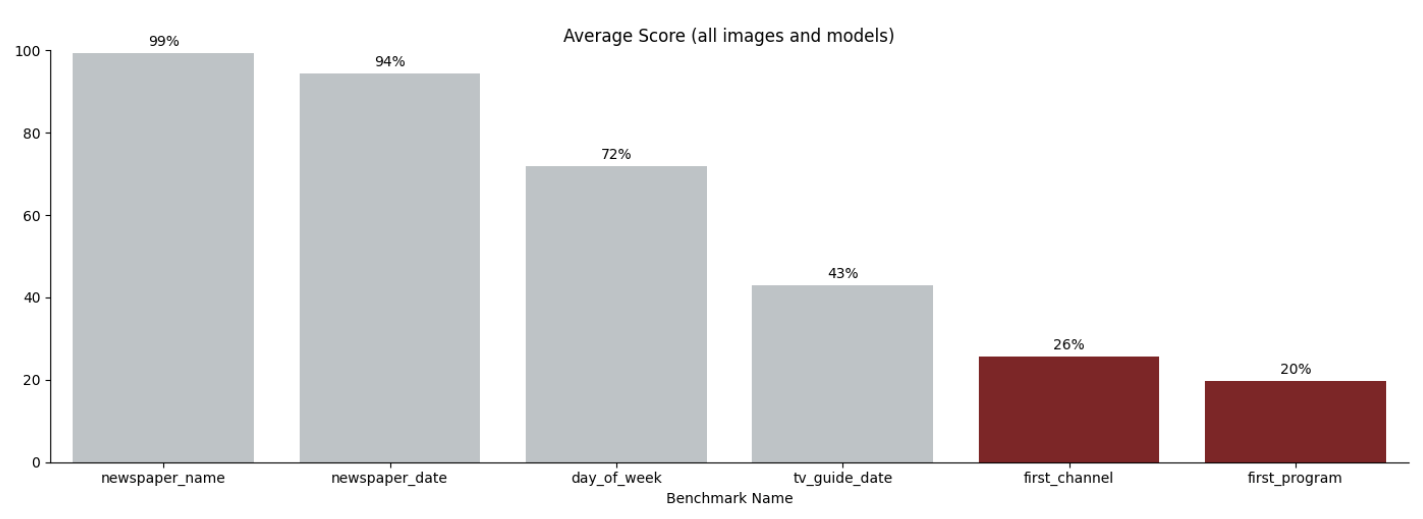
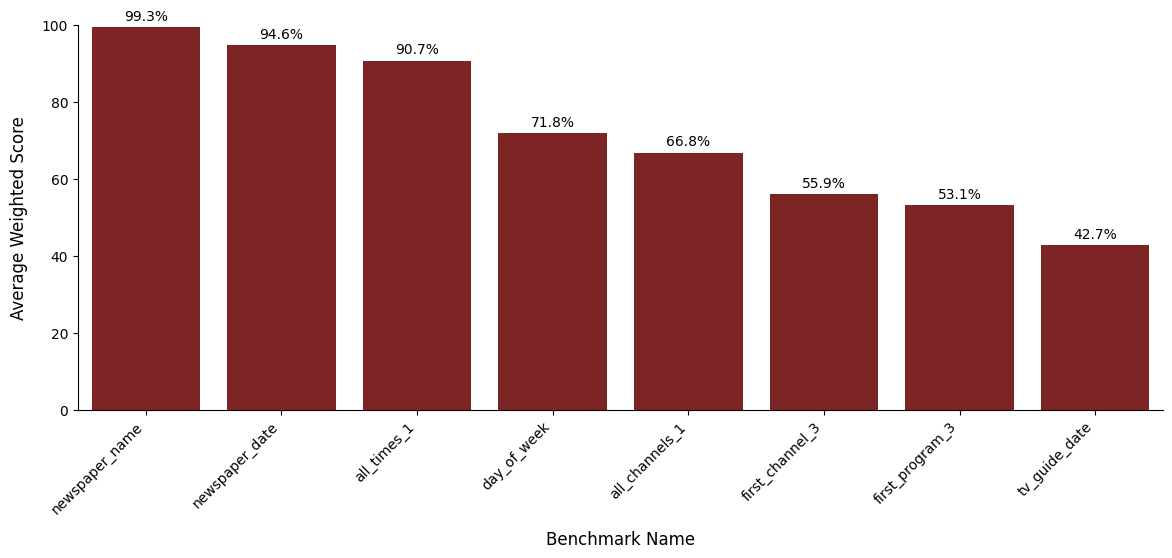
Updated blog, cleaned up image assets.

diff --git a/docs/blog/posts/llm_evals.md b/docs/blog/posts/llm_evals.md
@@ -16,7 +16,7 @@ Large Language Models (LLMs) offer a powerful alternative to manual data extract
 <!-- more -->
 
 !!! note
-    This article will cover how to design LLM benchmarks for research related data extraction and provide examples from our own implementation. For additional context you can reference our [Hub How-To](https://gsbresearchhub.stanford.edu/training-workshops){target="_blank"}  and our GitHub [here](https://github.com/gsbdarc/LLM_benchmarks){target="_blank"}.
+    This article will cover how to design LLM benchmarks for research related data extraction and provide examples from our own implementation. For additional context you can reference our [Hub How-To](https://gsbresearchhub.stanford.edu/training-workshops){target="_blank"} and our [GitHub](https://github.com/gsbdarc/LLM_benchmarks){target="_blank"}.
 
 ## Our Data
 
@@ -38,7 +38,7 @@ For our LLM evaluation pipeline, one benchmark asked the model to extract the da
 By establishing fixed criteria, a benchmark allows researchers to:
 
 - **Navigate Tradeoffs**: Systematically balance budget constraints against accuracy requirements.
-- **Reproducibility**: Guarantee objective, reproducible results rather than relying on a few lucky outputs.
+- **Ensure Reproducibility**: Guarantee objective, reproducible results rather than relying on a few lucky outputs.
 - **Track Progress**: Confidently measure whether a prompt tweak or model switch actually improves performance or causes a regression.
 
 ### Evaluation Framework
@@ -57,30 +57,32 @@ The framework we used has four components; in a well-designed benchmark, each fo
 The research question anchors the entire framework. Everything downstream (what you extract, how you prompt, how you score) should trace back to it.
 
 !!! example "In our pipeline"
-    *How did historical TV programming vary across channels and time periods?*
+    How did historical TV programming vary across channels and time periods?
 
 **Task**
 
 A task translates the research question into a concrete extraction operation. One research question may require several tasks; each should be narrow enough to prompt clearly and score objectively.
 
 !!! example "In our pipeline"
-    "Extract the show title of the first program listed in the TV-listings grid for the earliest time slot shown": a consistent, well-defined data point present on every newspaper page.
+    Get the name of the first channel from each image.
+
 
 **Prompt**
 
 The prompt translates the task into explicit, machine-readable instructions. Precision matters: a vague prompt doesn't just produce inconsistent outputs, it makes it harder to diagnose whether poor results reflect a model limitation or an underspecified instruction.
 
 !!! example "In our pipeline"
-    The prompt needed to specify where in the grid to look and exactly what to return. See [Updating Prompts](#updating-prompts) for how it evolved across three iterations.
+    Analyze the provided image of a TV schedule grid from a newspaper. Each row represents one channel. The leftmost or rightmost area of each row contains the channel information. Extract the channel information from ONLY the first data row of the grid (the first row immediately after the time-slot or any other subsection headers).
 
 **Metric**
 
-The metric defines what counts as a correct answer, and the choice has real consequences for how you interpret results.
+The metric defines what counts as a correct answer and measures how close an output is to the ground truth.
 
 !!! example "In our pipeline"
-    We scored each model response against the **ground truth**: the verified, hand-transcribed correct answer for each image. For the *first program* task, the ground truth was the show **title** only: the show name stripped of episode descriptions, closed-captioning markers, and VCR codes.
-
-    We started with exact string matching, but this penalized nearly correct outputs (e.g., "Daytona 500" gets a 0 when the ground truth is "2015 Daytona 500".) We switched to fuzzy matching (Levenshtein similarity ratio) to better capture partial accuracy.
+    LLM Output: "Food Channel"  
+    Ground Truth: "Food Network"  
+    Metric: word_iou (fraction of common words between two strings)  
+    Score: 0.5
 
 **The Feedback Loop**
 
@@ -95,73 +97,94 @@ In practice, this framework is iterative, not linear. Poor scores are a diagnost
 - Does your prompt properly explain what you want the LLM to do?
 - Is your metric appropriate for what the prompt is actually asking?
 
-In our pipeline, a one-sentence prompt returned poor results; iterating on it significantly improved performance across models. At the scale of this project (18 models, 35 images, 6 benchmarks), that's nearly 3,800 task combinations per iteration — a reusable pipeline turns each prompt change into a configuration update rather than a full re-run.
+In our pipeline, a one-sentence prompt returned poor results; iterating on it significantly improved performance across models.
 
 ### Executing at Scale
 
-To handle this scale efficiently, we built the following pipeline:
+Our project scaled quickly (18 models, 35 images, 6 benchmarks) with nearly 3,800 task combinations per iteration. To handle this volume efficiently, we built the following pipeline:
 
 <figure markdown>
   ![The evaluation pipeline](../../assets/images/llm_eval_pipeline.png){ width="700" }
   <figcaption>The end-to-end evaluation pipeline used in our project.</figcaption>
 </figure>
 
-After configuring our inputs (benchmarks, models, and images) and converting PDFs to greyscale PNGs, we accessed models through the [Stanford Playground API](https://uit.stanford.edu/aiplayground){target="_blank"}. Outputs and benchmark evaluation results were stored in [MongoDB](https://www.mongodb.com){target="_blank"}, our centralized database. 
+After configuring our inputs (benchmarks, models, and images) and converting PDFs to greyscale PNGs, we accessed models through the [Stanford Playground AI API](https://rcpedia.stanford.edu/blog/2026/03/06/stanfords-llm-api-tools/){target="_blank"}. Stanford provides access through a Stanford-managed environment with vendor agreements covering data use, retention, and model training; data is not used to train vendor models. The API allowed us to get outputs from models without the need for a web interface.
+
+!!! note "Stanford AI Playground"
+    Note: models are continuously deprecated and added to the Playground. You must reapply for a new key each time the list of available models changes in order to keep your access up to date.
+
+Outputs and benchmark evaluation results were stored in [MongoDB](https://www.mongodb.com){target="_blank"}, our centralized database with the following schema:
+
+| Field | Type | Example | Notes |
+| --- | --- | --- | --- |
+| `_id` | string | `"3023_2_processed"` | Primary key that captures the task ID and run ID of a successful LLM output |
+| `benchmark_id` | string | `"2"` | Unique integer identifier for the prompt |
+| `benchmark_name` | string | `"newspaper_date"` | Unique name identifier for the prompt |
+| `completion_tokens` | integer | `15` | Token usage associated with the LLM output |
+| `error` | string | `null` | Error message if the LLM was not able to return an output |
+| `image_id` | string | `"1"` | Unique integer identifier for the image used |
+| `model_id` | string | `"1"` | Unique integer identifier for the LLM |
+| `model_name` | string | `"Llama-4"` | Unique name identifier for the LLM |
+| `output_name` | string | `"Sun, Nov 16, 1997"` | Output from the LLM |
+| `run_id` | integer | `1` | The ith iteration of a given task |
+| `status` | string | `"processed"` | `processed` if the LLM returned an output without error, otherwise `unprocessed` |
+| `task_id` | string | `"2416"` | Unique ID associated with the combination of benchmark, image, and model |
+| `total_tokens` | integer | `4000` | Token usage associated with the input prompt and LLM output |
+| `updated_at` | datetime | `2026-04-08 15:45:50` | Time when the LLM returned an output |
+
 
 Storing results means you can compare across runs: did the new prompt do better or worse than the last version? Did switching models cause a regression on a benchmark that was previously working? Without it, answering those questions requires re-running everything from scratch.
 
 We processed all tasks in a few hours using the [Yen](https://rcpedia.stanford.edu/_getting_started/how_access_yens/?h=yens){target="_blank"} servers for compute and [SLURM](https://rcpedia.stanford.edu/_user_guide/slurm/?h=slurm){target="_blank"} array jobs to process tasks in parallel.
-
-!!! note "Stanford AI Playground"
-    We used the Stanford AI Playground because it gave us access to multiple multimodal models through a single Stanford managed API. The playground is approved for [high risk](https://uit.stanford.edu/news/stanford-ai-playground-now-approved-high-risk-data){target="_blank"} data. Stanford provides access through a Stanford-managed environment with vendor agreements covering data use, retention, and model training; data is not used to train vendor models.
-
-    You will need to apply and get approval for an [API](https://uit.stanford.edu/service/ai-api-gateway){target="_blank"} key.
-
-    Note: models are continuously deprecated and added to the Playground. You must reapply for a new key each time the list of available models changes in order to keep your access up to date.
 
 ## In Practice: Iterating on Historical TV Guides
 
 Here's how we applied this framework in practice.
 
 <figure markdown>
-  ![Example newspaper pages with TV-listings grids from our dataset](../../assets/images/llm_eval_tv_guide_example.png){ width="700" }
+  ![Example newspaper page with TV-listings grids from our dataset](../../assets/images/llm_eval_tv_guide_example.png){ width="700" }
   <figcaption>Example newspaper pages with TV-listings grids from our dataset.</figcaption>
 </figure>
 
 ### Selecting Benchmarks
 
-We selected tasks with clear, verifiable answers and assigned each a difficulty level based on expected extraction challenge; these levels were later confirmed by our results. We started with six benchmarks:
+We selected tasks with clear, verifiable answers and assigned each a difficulty level based on expected extraction challenge. We started with six benchmarks:
 
 <figure markdown>
-  ![First example newspaper page from our benchmark dataset](../../assets/images/llm_eval_benchmark_pic_1.png){ width="700" }
-  <figcaption>Sample page from our dataset showing the newspaper header and TV-listings grid.</figcaption>
+  ![First example newspaper page from our benchmark dataset](../../assets/images/llm_eval_benchmark_easy.png){ width="700" }
+  <figcaption>Sample page from our dataset showing the newspaper header and TV-listings grid. Easy benchmark answers are in grey boxes.</figcaption>
 </figure>
+
+**Easy (Grey)**
+
+  | Task | Description |
+  |---|---|
+  | Newspaper Name | Simple metadata extraction, fixed location across documents, high resolution. |
+  | Newspaper Date | Simple metadata extraction, fixed location across documents, high resolution. |
 
 <figure markdown>
-  ![Second example newspaper page from our benchmark dataset](../../assets/images/llm_eval_benchmark_pic_2.png){ width="700" }
-  <figcaption>A second sample page illustrating layout variability across the dataset.</figcaption>
+  ![First example newspaper page from our benchmark dataset](../../assets/images/llm_eval_benchmark_medium.png){ width="700" }
+  <figcaption>Sample page from our dataset showing the newspaper header and TV-listings grid. Medium benchmark answers are in yellow boxes.</figcaption>
 </figure>
 
-=== "Easy (Grey)"
+**Medium (Yellow)**
 
-    | Task | Description |
-    |---|---|
-    | Newspaper Name | Simple metadata extraction, fixed location across documents, high resolution. |
-    | Newspaper Date | Simple metadata extraction, fixed location across documents, high resolution. |
+  | Task | Description |
+  |---|---|
+  | TV Guide Day of Week | Varied location, mixed resolution, data found in scanned PDF. |
+  | TV Guide Date | Reasoning: answer is derived by combining both Newspaper Date and TV Guide Day of Week without being explicitly prompted. |
 
-=== "Medium (Yellow) "
+<figure markdown>
+  ![First example newspaper page from our benchmark dataset](../../assets/images/llm_eval_benchmark_hard.png){ width="700" }
+  <figcaption>Sample page from our dataset showing the newspaper header and TV-listings grid. Hard benchmark answers are in red boxes. </figcaption>
+</figure>
 
-    | Task | Description |
-    |---|---|
-    | TV Guide Day of Week | Varied location, mixed resolution, data found in scanned PDF. |
-    | TV Guide Date | Reasoning: answer is derived by combining both Newspaper Date and TV Guide Day of Week without being explicitly prompted. |
+**Hard (Red)**
 
-=== "Hard (Red)"
-
-    | Task | Description |
-    |---|---|
-    | First Channel | Data found within grid, smallest font, lowest resolution, variability (color, placement, size). |
-    | First Program | Data found within grid, smallest font, lowest resolution, variability (color, placement, size). |
+  | Task | Description |
+  |---|---|
+  | First Channel | Data found within grid, smallest font, lowest resolution, variability (color, placement, size). |
+  | First Program | Data found within grid, smallest font, lowest resolution, variability (color, placement, size). |
 
 ### Challenges with "Ground Truth"
 
@@ -187,7 +210,7 @@ The so-called "right" answer depends on what your prompt is actually asking for 
 
 With ground truth defined, our scores became the signal for iteration. One benchmark that models initially struggled with was extracting the first program name — the hardest task in the set, with small font, low resolution, and significant variability across guides.
 
-We adjusted our prompt several times to see if we could get better results. You can see the prompts we used below and how each model performed across all images.
+We adjusted our prompt several times to see if we could get better results. You can see the prompts we used below and how each model performed across all images. The model with the best performance across each prompt is highlighted in red.
 
 === "First Program v1"
     **Short, one sentence prompt.**
@@ -209,7 +232,7 @@ We adjusted our prompt several times to see if we could get better results. You 
     </figure>
 
     !!! note "Why did GPT-5 score 0%?"
-        Under fuzzy matching, even a hallucination produces some character overlap and scores above zero — so exactly 0% means the model returned null rather than any answer at all. On this prompt version, gpt-5 and gpt-5-mini consistently abstained when the target text was too small or low-resolution to read confidently, rather than attempt an uncertain extraction.
+        Under fuzzy matching (scoring partial overlap rather than requiring an exact match), even a hallucination produces some character overlap and scores above zero — so exactly 0% means the model returned null rather than any answer at all. On this prompt version, gpt-5 and gpt-5-mini consistently abstained when the target text was too small or low-resolution to read confidently, rather than attempt an uncertain extraction.
 
         ![Example model outputs for image #19 with ground truth "Politically"](../../assets/images/llm_eval_example_outputs.png)
 === "First Program v3"
@@ -225,50 +248,70 @@ We adjusted our prompt several times to see if we could get better results. You 
 ### Results
 
 === "Average Accuracy by Benchmark"
-    Across our initial benchmarks and all models, scores followed the difficulty gradient we predicted before running.
 
     <figure markdown>
       ![Average score by benchmark across all images and models](../../assets/images/llm_eval_benchmark_results_1.png){ width="700" }
       <figcaption>Average accuracy by benchmark across all models and images.</figcaption>
     </figure>
 
-    Easy metadata tasks (newspaper name and newspaper date) scored above 94% on average. The hard grid reading tasks (first channel, first program) averaged 26% and 20% respectively, reflecting the challenges of small fonts and low scan resolution.
+    Our best performing benchmarks were easy metadata tasks like newspaper name and newspaper date, which scored 99% and 95% respectively. 
+
+    The worst performing benchmark was TV Guide Date with an overall score of 42.7%. Low scores were indicative of vague prompting and additional complexity from reasoning compared to other data extraction benchmarks.'
+
+    We added additional benchmarks "all times" and "all channels" to evaluate how well the models did on extracting larger arrays of information.
+
+
 === "Average Accuracy by Model"
-    Looking across six benchmarks, the model leaderboard for accuracy averaged across all tasks was:
+    Looking across all benchmarks, the model leaderboard for accuracy averaged across all tasks was:
 
     <figure markdown>
       ![Top-8 and bottom-8 models by overall accuracy and total cost](../../assets/images/llm_eval_model_ranking.png){ width="700" }
       <figcaption>Top-8 and bottom-8 models ranked by overall accuracy, with total cost per model.</figcaption>
     </figure>
 
-    Gemini-2.5-pro topped the leaderboard at 71.9% overall while claude-3-haiku could only produce accurate results 51% of the time. Notably, our most expensive model was o1, which cost almost 5x more than gemini-2.5-pro but had an accuracy of 61%.
+    Gemini-2.5-pro topped the leaderboard at 78.6% overall while claude-3-haiku could only produce accurate results 48% of the time. Notably, our most expensive model was o1, which cost almost 5x more than gemini-2.5-pro but had an accuracy of 58%.
+
+### Temperature and Reasoning Models
+
+**Accuracy Rates Across Runs**
+
+<figure markdown>
+  ![Accuracy rate for benchmarks across runs](../../assets/images/llm_eval_variability.png){ width="500" }
+  <figcaption> Variability across runs for day of week and tv guide date (all models and images).  </figcaption>
+</figure>
+
+We set `temperature=0` for all models to keep extraction deterministic (the same prompt on the same image should produce the same output every time). Even after doing so, however, we noticed variation in outputs which was reflected in the accuracy rate per run. To account for this we would recommend running the same task multiple times and taking the average of the metrics.
+
+**Reasoning**
+
+Some models also support a **reasoning effort** parameter that controls how much internal chain-of-thought the model performs before responding; however, this setting is not consistently available across all models in the Stanford Playground, so we used each model's default.
+
+One benchmark where reasoning capability genuinely mattered was **TV Guide Date**: unlike the other tasks, the correct date isn't printed explicitly anywhere in the grid. Instead, the model must derive it by combining the newspaper's publication date (from the fixed header) with the day of week label in the TV guide. Tasks like this, which require inference rather than direct transcription, are where tuning reasoning effort (or choosing a reasoning-optimized model) is most likely to pay off.
 
 ### Cost
 
 One practical question for any researcher considering this approach: how much does it actually cost to run?
 
 <figure markdown>
-  ![Best-performing model per benchmark with total cost](../../assets/images/llm_eval_benchmark_total_cost.png){ width="500" }
-  <figcaption> Total cost per benchmark across 35 images and 18 models. </figcaption>
+  ![Best-performing model per benchmark with total cost](../../assets/images/llm_eval_total_cost.png){ width="500" }
+  <figcaption> Total cost per task across 35 images and 18 models. </figcaption>
 </figure>
 
-Running the entire evaluation pipeline (approx. 3,800 unique tasks) cost $93.36. For easy benchmarks (newspaper name, newspaper date) the total cost was approximately $11 across all 35 images and 18 models. Our harder benchmarks were more expensive: first channel cost $18.46 and first program, our most expensive benchmark, cost $27.48. 
-
-Higher costs reflect longer, more complex prompts and greater model effort per extraction. If cost is a concern, one option is to test a smaller set of models or use a smaller image sample.
-
-### Reasoning Models and Temperature
-
-We set `temperature=0` for all models to keep extraction deterministic (the same prompt on the same image should produce the same output every time), making results easier to compare. Some models also support a **reasoning effort** parameter that controls how much internal chain-of-thought the model performs before responding; however, this setting is not consistently available across all models in the Stanford Playground, so we used each model's default.
-
-One benchmark where reasoning capability genuinely mattered was **TV Guide Date**: unlike the other tasks, the correct date isn't printed explicitly anywhere in the grid. Instead, the model must derive it by combining the newspaper's publication date (from the fixed header) with the day of week label in the TV guide. Tasks like this, which require inference rather than direct transcription, are where tuning reasoning effort (or choosing a reasoning-optimized model) is most likely to pay off.
+Running the entire evaluation pipeline multiple times (approx. 11,100 tasks) cost $106.06. We noticed that simple metadata extraction tasks tended to be cheaper ($0.006/task) while more complex tasks that required lengthy prompts, larger outputs, and/or more reasoning drove up costs.
 
 ## Takeaways
 
-1. **Speed and Reusability**
+Building a benchmark was less about finding the one "right" model and more about setting up a process we could keep refining as our questions, data, and the available models change. A few lessons stood out from our work:
 
-     The pipeline processed nearly 3,800 tasks in a few hours by running jobs in parallel. Once built, adding new models, benchmarks, or images is an easy configuration update, making it straightforward to adapt for other document extraction workflows.
+1. **Start with your research question**
 
-2. **Start with your research question**
+    Good results depend first on a well-defined research question and a clear understanding of our data's variability. Tasks, prompts, and metrics all follow from there; getting that foundation right is what separates a useful benchmark from one that just produces numbers.
 
-    Good results depend first on a well-defined research question and a clear understanding of your data's variability. Tasks, prompts, and metrics all follow from there; getting that foundation right is what separates a useful benchmark from one that just produces numbers.
+2. **Treat it as an iterative process**
+
+    A benchmark has many knobs to turn — the prompt, the metric, the ground truth, and the choice of model — and the first setting is rarely the best one. Prompting carried a lot of weight: on our hardest task, rewriting a single-sentence prompt into explicit, step-by-step instructions lifted scores across nearly every model. Treat early results as a diagnostic signal, not a final verdict, and expect to loop back a few times before things click.
+
+3. **Build once, reuse easily**
+
+    The pipeline processed nearly 3,800 tasks in a few hours by running jobs in parallel. Because the models, benchmarks, and images are just configuration, the cost of change is low. When a new model is released, we can point the pipeline at it and get back a full set of evaluations without re-running or rewriting anything and the same is true for a new prompt, a new task, or a fresh batch of documents.
 